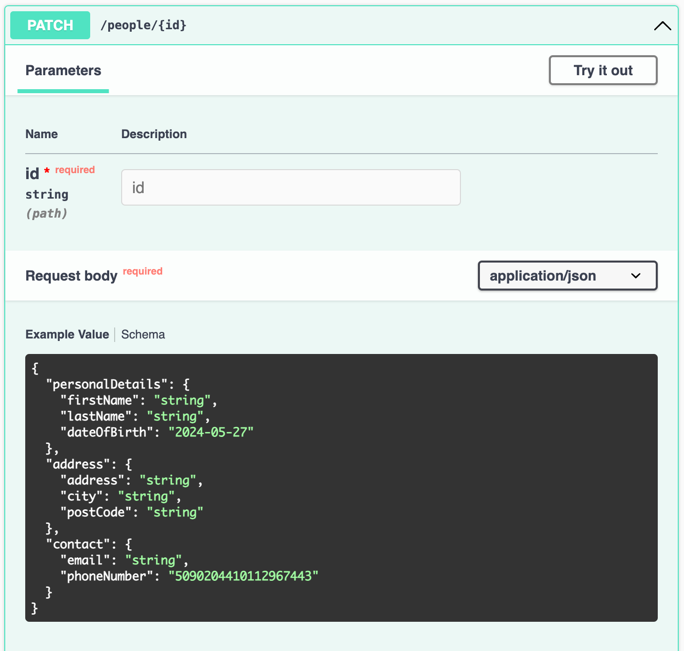
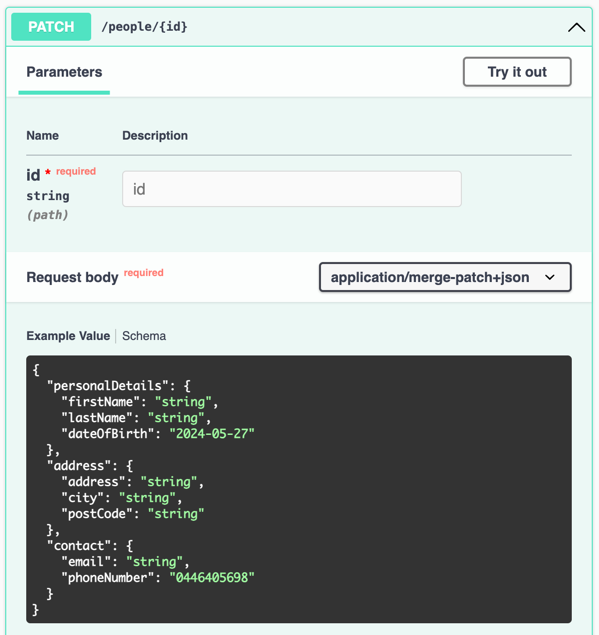
Docs + application/merge-patch+json

Changed region(s): [[0.0, 0.0, 1.0, 1.0]]

diff --git a/src/main/java/com/github/com/elgleidson/patch/controller/ProspectController.java b/src/main/java/com/github/com/elgleidson/patch/controller/ProspectController.java
@@ -77,7 +77,7 @@ public class ProspectController {
   }
 
 
-  @PatchMapping("/{id}")
+  @PatchMapping(value = "/{id}", consumes = "application/merge-patch+json")
   public Mono<ResponseEntity<PersonResponse>> patch(@PathVariable String id,
                                                     @Schema(implementation = PersonRequest.class)
                                                     @RequestBody JsonMergePatch request) {

diff --git a/README.md b/README.md
@@ -1,6 +1,17 @@
-http://localhost:8080/swagger-ui.html
+# PATCH API with Json Merge Patch ()
+
+Usually a request for a PUT / POST API contains some annotations like `@NotBlank`, `@NotNull`, `@Valid`, etc. 
+However, when using `JsonMergePatch` our request body is not validated automatically by Spring.
+
+`@Valid @RequestBody JsonMergePatch request` doesn't work.
+
+This example works around this issue, showing how to make use of the (jakarta/javax) annotations to validate a Json Merge Patch.
+
 
 ## Swagger docs:
+
+http://localhost:8080/swagger-ui.html
+
 We can see the swagger docs are generated correctly. This is possible due to the following annotation:
 `@Schema(implementation = PersonRequest.class) @RequestBody JsonMergePatch request`
 <img src="swagger-doc-schema.png" alt="Swagger doc schema" width=500>
@@ -51,7 +62,7 @@ _Response:_
 curl -X 'PATCH' \
   'http://localhost:8080/people/794b32b2-b187-47b3-9b65-62014acc332a' \
   -H 'accept: */*' \
-  -H 'Content-Type: application/json' \
+  -H 'Content-Type: application/merge-patch+json' \
   -d '{
   "address": {
     "address": "1428 Elm Street",
@@ -85,7 +96,7 @@ _Response:_
 curl -X 'PATCH' \
   'http://localhost:8080/people/794b32b2-b187-47b3-9b65-62014acc332a' \
   -H 'accept: */*' \
-  -H 'Content-Type: application/json' \
+  -H 'Content-Type: application/merge-patch+json' \
   -d '{
   "contact": {
     "email": "freddy.krueger@nightmare.com",
@@ -121,7 +132,7 @@ _Response:_
 curl -X 'PATCH' \
   'http://localhost:8080/people/794b32b2-b187-47b3-9b65-62014acc332a' \
   -H 'accept: */*' \
-  -H 'Content-Type: application/json' \
+  -H 'Content-Type: application/merge-patch+json' \
   -d '{
   "contact": null
 }
@@ -151,7 +162,7 @@ _Response:_
 curl -X 'PATCH' \
   'http://localhost:8080/people/794b32b2-b187-47b3-9b65-62014acc332a' \
   -H 'accept: */*' \
-  -H 'Content-Type: application/json' \
+  -H 'Content-Type: application/merge-patch+json' \
   -d '{
   "address": {
     "city": "New York"
@@ -183,7 +194,7 @@ _Response:_
 curl -X 'PATCH' \
   'http://localhost:8080/people/794b32b2-b187-47b3-9b65-62014acc332a' \
   -H 'accept: */*' \
-  -H 'Content-Type: application/json' \
+  -H 'Content-Type: application/merge-patch+json' \
   -d '{
   "contact": {
     "email": "invalid_email"
@@ -199,7 +210,7 @@ _Response:_ 400 as it gets validated by `@Email` annotation.
 curl -X 'PATCH' \
   'http://localhost:8080/people/794b32b2-b187-47b3-9b65-62014acc332a' \
   -H 'accept: */*' \
-  -H 'Content-Type: application/json' \
+  -H 'Content-Type: application/merge-patch+json' \
   -d '{
   "contact": {
     "email": null
@@ -233,7 +244,7 @@ _Response:_
 curl -X 'PATCH' \
   'http://localhost:8080/people/794b32b2-b187-47b3-9b65-62014acc332a' \
   -H 'accept: */*' \
-  -H 'Content-Type: application/json' \
+  -H 'Content-Type: application/merge-patch+json' \
   -d '{
   "personalDetails": {
     "firstName": null
